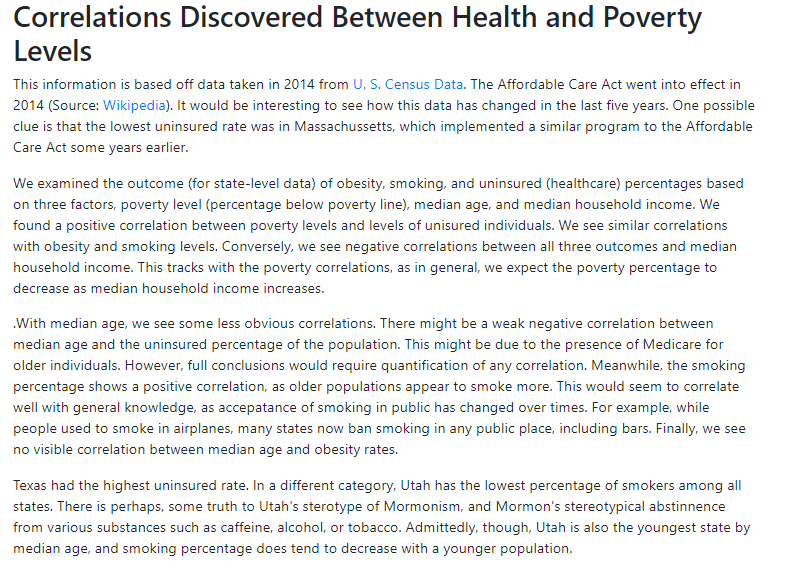
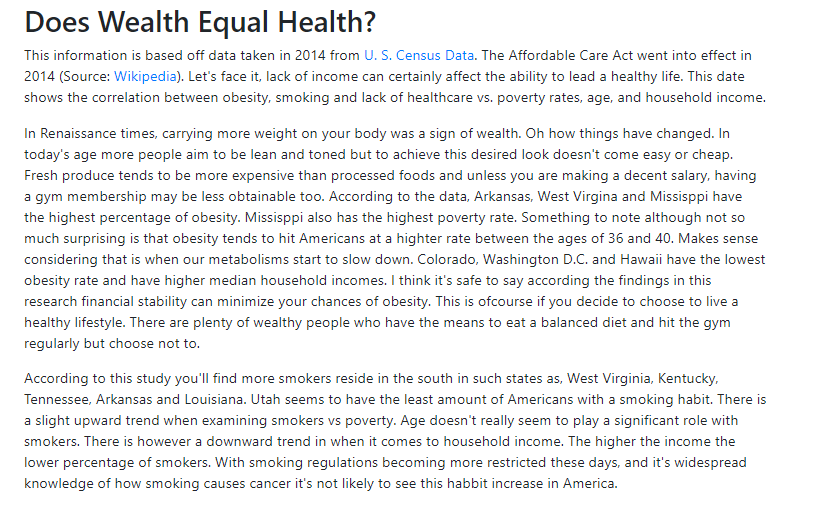
Uploading final documents

diff --git a/index.html b/index.html
@@ -31,36 +31,40 @@
         <div class="row">
             <div class="col-xs-12 col-md-9">
                 <div class="article">
-                    <h2>Correlations Discovered Between Health and Poverty Levels</h2>
+                    <h2>Does Wealth Equal Health?</h2>
 
                     <p>
                         This information is based off data taken in 2014 from <a href = "https://factfinder.census.gov/faces/nav/jsf/pages/searchresults.xhtml">U. S. Census Data</a>.
                         The Affordable Care Act went into effect in 2014 (Source: <a href="https://en.wikipedia.org/wiki/Patient_Protection_and_Affordable_Care_Act">Wikipedia</a>).
-                        It would be interesting to see how this data has changed in the last five years.  One possible clue is that the lowest uninsured rate was in Massachussetts,
-                        which implemented a similar program to the Affordable Care Act some years earlier.
+                        Let's face it, lack of income can certainly affect the ability to lead a healthy life. This date shows the correlation between obesity, smoking and lack of
+                        healthcare vs. poverty rates, age, and household income.
                     </p>
 
-                    <p> We examined the outcome (for state-level data) of obesity, smoking, and uninsured (healthcare) percentages
-                        based on three factors, poverty level (percentage below poverty line), median age, and median household income.
-                        We found a positive correlation between poverty levels and levels of unisured individuals. We see similar correlations 
-                        with obesity and smoking levels. Conversely, we see negative correlations between all three outcomes and median household income.
-                        This tracks with the poverty correlations, as in general, we expect the poverty percentage to decrease as median household income increases.
+                    <p> 
+                        In Renaissance times, carrying more weight on your body was a sign of wealth. Oh how things have changed. In today's age more people aim to be lean and toned but to achieve 
+                        this desired look doesn't come easy or cheap. Fresh produce tends to be more expensive than processed foods and unless you are making a decent salary, having a gym membership may be less obtainable too.
+                        According to the data, Arkansas, West Virgina and Missisppi have the highest percentage of obesity. Missisppi also has the highest poverty rate. Something to note although not so much surprising is that obesity tends to hit 
+                        Americans at a highter rate between the ages of 36 and 40. Makes sense considering that is when our metabolisms start to slow down. Colorado, Washington D.C. and Hawaii have the lowest obesity rate and have higher median household
+                        incomes. I think it's safe to say according the findings in this research financial stability can minimize your chances of obesity. This is ofcourse if you decide to choose to live a healthy lifestyle. There are plenty of wealthy 
+                        people who have the means to eat a balanced diet and hit the gym regularly but choose not to. 
+
                     </p>
             
-                    <p>.With median age, we see some less obvious correlations.  There might be a weak negative correlation
-                        between median age and the uninsured percentage of the population.  This might be due to the presence of Medicare for older individuals.
-                        However, full conclusions would require quantification of any correlation.  Meanwhile, the smoking percentage shows a positive correlation,
-                        as older populations appear to smoke more.  This would seem to correlate well with general knowledge, as accepatance of smoking in public has changed
-                        over times.  For example, while people used to smoke in airplanes, many states now ban smoking in any public place, including bars.  Finally,
-                        we see no visible correlation between median age and obesity rates. 
+                    <p>
+                        According to this study you'll find more smokers reside in the south in such states as, West Virginia, Kentucky, Tennessee, Arkansas and Louisiana. Utah seems to have the least amount of Americans with a smoking habit. There is a slight 
+                        upward trend when examining smokers vs poverty. Age doesn't really seem to play a significant role with smokers. There is however a downward trend in when it comes to household income. The higher the income the lower percentage of smokers.
+                        With smoking regulations becoming more restricted these days, and it's widespread knowledge of how smoking causes cancer it's not likely to see this habbit increase in America. 
                     </p>
             
 
                     <p>
-                        Texas had the highest uninsured rate. In a different category, Utah has the lowest percentage of smokers
-                        among all states.  There is perhaps, some truth to Utah's sterotype of Mormonism, and Mormon's stereotypical abstinnence from 
-                        various substances such as caffeine, alcohol, or tobacco.  Admittedly, though, Utah is also the youngest state by median age,
-                        and smoking percentage does tend to decrease with a younger population.
+                        Healthcare is something every American should have but to some it isn't so easily obtainable. This data shows that Texas residents are lacking the most healthcare followed by a few other states with high poverty rates such as Georgia, Louisiana 
+                        and Missisppi. Age doesn't really play a huge role in this research other than to show that Americans seem to be lacking healthcare between the ages of 36 and 40. There is a mild downward trend when reviewing lack of healthcare vs. household income. 
+                        The higher income households aren't lacking in healthcare so much as households with a lower income rate which shouldn't really be a surprise to anyone.
+                    </p>
+
+                    <p> In conclusion to this article the data findings reveal that higher income does lead to a healthier living situation. Having access to healthier food options, better education and medical coverage are crucial to one's overall health. They say money can't
+                        buy happiness but it can buy healthcare and ultimately healthy living tends to lead you to happiness, right? 
                     </p>
             
                 </div>

diff --git a/assets/js/app.js b/assets/js/app.js
@@ -230,7 +230,7 @@ d3.csv("./assets/data/data.csv").then(function(censusData) {
         .attr("x", 0)
         .attr("y", 20)
         .attr("value", "poverty")
-        .text("In Poverty (%)");
+        .text("Poverty (%)");
 
     var ageLabel = xLabelsGroup.append("text")
         .classed("aText", true)
@@ -270,7 +270,7 @@ d3.csv("./assets/data/data.csv").then(function(censusData) {
         .attr("dy", "1em")
         .attr("transform", "rotate(-90)")
         .attr("value", "smokes")
-        .text("Smokes (%)");
+        .text("Smokers (%)");
 
     var obesityLabel = yLabelsGroup.append("text")
         .classed("aText", true)

diff --git a/assets/css/d3Style.css b/assets/css/d3Style.css
@@ -31,7 +31,7 @@
 }
 
 .stateCircle {
-    fill: #89bdd3;
+    fill: #B0E0E6;
     stroke: #e3e3e3;
 }
 

diff --git a/assets/css/style.css b/assets/css/style.css
@@ -10,7 +10,6 @@ html {
 }
 
 body {
-    /* Padding bottom */
     padding-bottom: 80px;
 }
 
